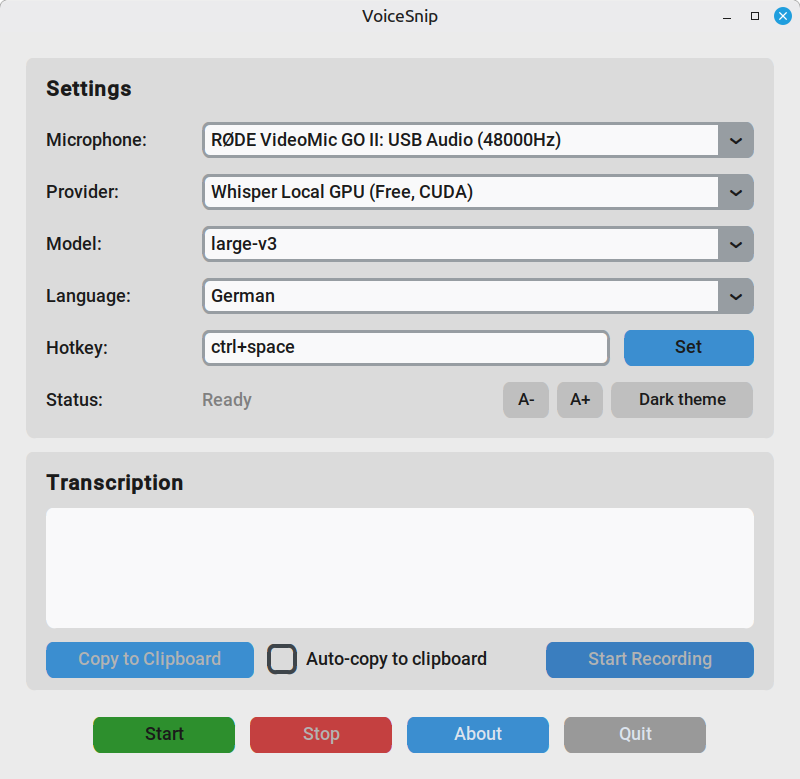
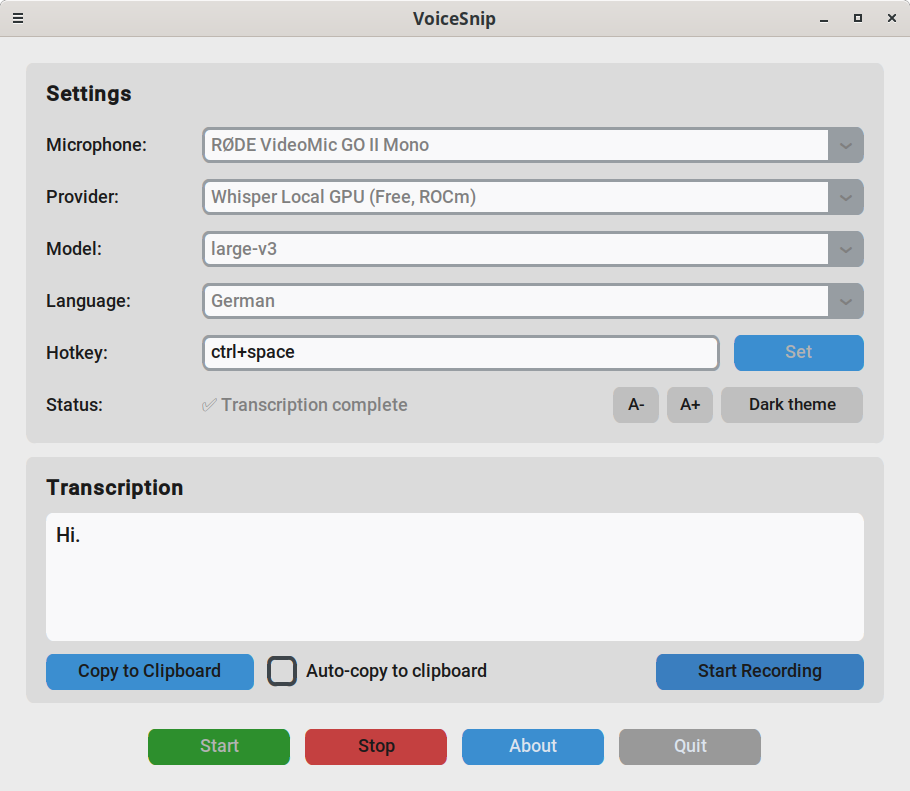
fix(text-inserter): Send spaces as separate keystrokes to prevent dropping
gnome-terminal and other terminals occasionally drop spaces when xdotool
types fast. Split the text on spaces, type word chunks normally, and send
each space via `xdotool key space` with a short pause so the terminal has
time to register it.

Also updates the voicesnip.png asset.

diff --git a/voicesnip/text_inserter.py b/voicesnip/text_inserter.py
@@ -5,13 +5,21 @@ Handles inserting transcribed text into active applications.
 Uses xdotool on Linux X11 for reliable text insertion without clipboard.
 """
 
+import re
 import subprocess
+import time
+
+CHAR_DELAY_MS = 12
+SPACE_PAUSE_S = 0.04
 
 
 def insert_text(text):
     """Insert text into active application without using clipboard.
 
-    Uses xdotool for reliable text insertion on Linux X11 systems.
+    Types non-space chunks with xdotool's normal delay, then sends each
+    space as a separate keystroke with a short pause around it. Some
+    terminals (e.g. gnome-terminal) drop spaces when xdotool types too
+    fast; isolating spaces avoids that.
 
     Args:
         text: Text to insert
@@ -20,11 +28,26 @@ def insert_text(text):
         FileNotFoundError: If xdotool is not installed
     """
     try:
-        subprocess.run(
-            ['xdotool', 'type', '--clearmodifiers', '--', text],
-            check=True,
-            timeout=10.0  # Longer timeout for long text
-        )
+        tokens = re.split(r'( +)', text)
+        for token in tokens:
+            if not token:
+                continue
+            if token[0] == ' ':
+                for _ in token:
+                    time.sleep(SPACE_PAUSE_S)
+                    subprocess.run(
+                        ['xdotool', 'key', '--clearmodifiers', 'space'],
+                        check=True,
+                        timeout=2.0,
+                    )
+                    time.sleep(SPACE_PAUSE_S)
+            else:
+                subprocess.run(
+                    ['xdotool', 'type', '--clearmodifiers',
+                     '--delay', str(CHAR_DELAY_MS), '--', token],
+                    check=True,
+                    timeout=15.0,
+                )
     except subprocess.TimeoutExpired:
         print("Error: Text insertion timed out")
     except subprocess.CalledProcessError as e: